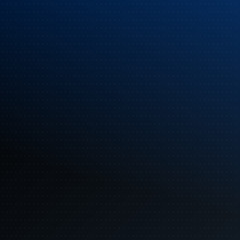
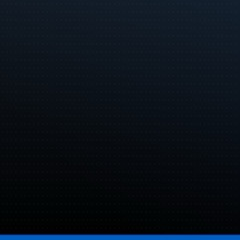
Stop injecting a background over the page (#7)
* Stop injecting an !important background over the Studio

The Studio's grid background never rendered in the app, and the host was doing it.

On dom-ready the Studio window injected:

  html, body { background: #141415 !important; }

`background` is a shorthand, so with !important it resets background-image and
background-size to their initial values. Nothing in a stylesheet can outrank it,
which is why the grid painted correctly in a browser and computed to
`background-image: none` in the app. And because it is injected on dom-ready it
lands after first paint — the grid appeared, then vanished, which reads as the page
overriding itself. A long time was spent looking for that override inside the
page, where it was not.

It was belt-and-braces against a white flash on a cold load. The window already
sets `backgroundColor: "#141415"`, which is painted before the page exists —
earlier than any injected rule can manage — so the injection bought nothing and
cost every future page texture.

The drag region stays. That one genuinely belongs to the host: it is about the
window frame, a served page has no reason to know about it, and the rules are
inert in a browser.

The editor window has the same shape (`html, body, #root { background: #09090b
!important }`) and is left alone: its wallpaper paints on .previewFrame, deeper in
the tree, so the shorthand does not reach it. Worth revisiting, not worth changing
blind.

* Fix the assertion my CFBundleName removal broke
[…]

diff --git a/electron/windows.ts b/electron/windows.ts
@@ -67,17 +67,17 @@ function applyContentProtection(win: BrowserWindow, label: string) {
 	if (CONTENT_PROTECTION_DISABLED) {
 		console.warn(
 			`[content-protection] OFF for the ${label} window ` +
-				"(OPENSCREEN_DISABLE_CONTENT_PROTECTION=1) — it will appear in screen captures, " +
-				"including recordings. Unset it for anything but automated testing.",
+			"(OPENSCREEN_DISABLE_CONTENT_PROTECTION=1) — it will appear in screen captures, " +
+			"including recordings. Unset it for anything but automated testing.",
 		);
 		return;
 	}
 	if (CONTENT_PROTECTION_BREAKS_DISPLAY && !CONTENT_PROTECTION_FORCED) {
 		console.warn(
 			`[content-protection] OFF for the ${label} window — macOS ` +
-				`${process.getSystemVersion()} never displays a content-protected window, so ` +
-				"enabling it would make this window permanently invisible. It may therefore appear " +
-				"in screen captures. Set OPENSCREEN_FORCE_CONTENT_PROTECTION=1 to re-test.",
+			`${process.getSystemVersion()} never displays a content-protected window, so ` +
+			"enabling it would make this window permanently invisible. It may therefore appear " +
+			"in screen captures. Set OPENSCREEN_FORCE_CONTENT_PROTECTION=1 to re-test.",
 		);
 		return;
 	}
@@ -447,8 +447,7 @@ export function createEditorWindow(query: Record<string, string> = {}): BrowserW
 		// Windows/Linux the topbar uses the `titlebar-area-*` env vars instead.
 		win.webContents
 			.insertCSS(
-				`html, body, #root { background: #09090b !important; }
-				 :root { --titlebar-inset-left: ${isMac ? "68px" : "0px"}; }`,
+				`:root { --titlebar-inset-left: ${isMac ? "68px" : "0px"}; }`,
 			)
 			.catch(() => {
 				// Best-effort cosmetic; ignore if the page is mid-teardown.

diff --git a/src/lib/brandWallpapers.ts b/src/lib/brandWallpapers.ts
@@ -25,4 +25,5 @@ export const BRAND_WALLPAPERS: readonly BrandWallpaper[] = [
 	{ path: "/wallpapers/brand/docks-board.jpg", thumb: "/wallpapers/brand/thumbs/docks-board.jpg", label: "Dock Designer · tinted board" },
 	{ path: "/wallpapers/brand/railing-board.jpg", thumb: "/wallpapers/brand/thumbs/railing-board.jpg", label: "Railing Designer · tinted board" },
 	{ path: "/wallpapers/brand/rolemodel-blue.jpg", thumb: "/wallpapers/brand/thumbs/rolemodel-blue.jpg", label: "Blue" },
+	{ path: "/wallpapers/brand/rolemodel.jpg", thumb: "/wallpapers/brand/thumbs/rolemodel.jpg", label: "Bright Blue" },
 ];

diff --git a/electron/studio/embedded-editor.ts b/electron/studio/embedded-editor.ts
@@ -107,7 +107,7 @@ function create(): WebContentsView {
 	created.webContents.on("dom-ready", () => {
 		created.webContents
 			.insertCSS(
-				"html, body, #root { background: #09090b !important; } :root { --titlebar-inset-left: 0px; }",
+				":root { --titlebar-inset-left: 0px; }",
 			)
 			.catch(() => {
 				/* cosmetic, and the page may be mid-teardown */

diff --git a/website/docs/rolemodel/pipeline.md b/website/docs/rolemodel/pipeline.md
@@ -68,7 +68,7 @@ call site, which is what keeps rebasing on upstream cheap. What they add:
 brew install rolemodel/tap/rm-video
 ```
 
-That installs Node and eight commands:
+That installs Node and nine commands:
 
 | command | does |
 |---|---|
@@ -78,6 +78,7 @@ That installs Node and eight commands:
 | `rm-voice` | narration → audio + an exact SRT |
 | `rm-mux` | reconciles narration timing against a recast render |
 | `rm-library` | builds the library index |
+| `rm-compose` | cuts scenes and footage into one document the editor opens |
 | `rm-share` | sends a finished video for review |
 | `rm-setup` | checks every piece of the install and repairs what it can |
 

diff --git a/website/docs/rolemodel/development.md b/website/docs/rolemodel/development.md
@@ -74,7 +74,7 @@ npm run verify    # just the assertions
 ```
 
 It is deliberately not a unit-test suite. Most of what breaks here is a contract
-between two things — a formula that promises eight commands, a client that builds
+between two things — a formula that promises nine commands, a client that builds
 a path the server resolves differently, a cask whose checksums no longer match
 its release — and those are the assertions worth having. Several exist because
 something shipped broken:
